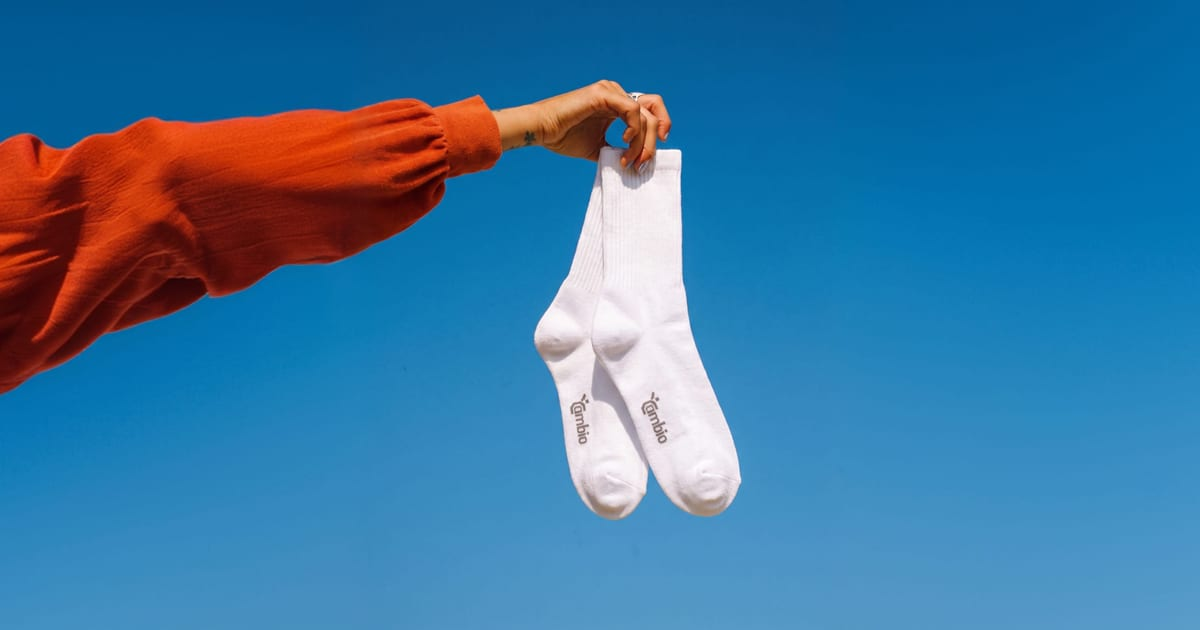
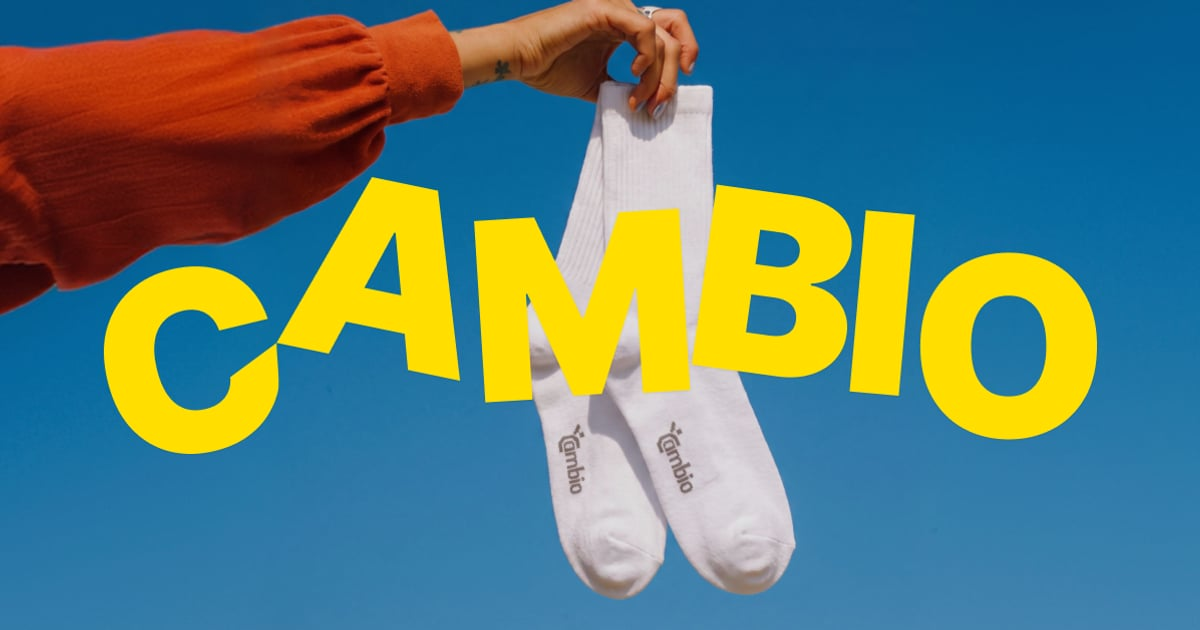
Bolje fotografije od klijenta (hero, kategorije, CTA, O nama, OG slika), D-070

diff --git a/scripts/update-media-files.ts b/scripts/update-media-files.ts
@@ -1,0 +1,57 @@
+/**
+ * Menja fajl postojećih slika novim fajlom iz src/seed/images (isto ime, nova verzija), D-070.
+ * Zapis slike u bazi ostaje isti (isti id, alt, fokus), pa sve stranice i proizvodi i dalje
+ * pokazuju na nju; Payload pravi nove veličine i otprema ih (lokalno u media/ ili na S3).
+ * Slika se nalazi po alt tekstu iz src/seed/content.ts (images).
+ * Pokretanje (lokalno):  npm run payload -- run scripts/update-media-files.ts
+ * Demo (Supabase):       cross-env NODE_ENV=production node --env-file=.env.demo.local node_modules/payload/bin.js run scripts/update-media-files.ts
+ * Posle toga revalidacija (node scripts/revalidate.mjs) ili novi deploy.
+ */
+import path from 'path'
+import { getPayload } from 'payload'
+import config from '@payload-config'
+import { images, type ImageKey } from '../src/seed/content'
+
+// Slike zamenjene boljim verzijama 28.10.2026. (izvor: Figma/Shopify eksport klijenta)
+const KEYS: ImageKey[] = [
+  'hero',
+  'catMen',
+  'catWomen',
+  'ctaBg',
+  'aboutBrand4',
+  'ctaCollection',
+  'plpCampaign',
+  'aboutHero',
+  'aboutBrand3',
+]
+
+const payload = await getPayload({ config })
+let updated = 0
+for (const key of KEYS) {
+  const img = images[key]
+  const { docs } = await payload.find({
+    collection: 'media',
+    where: { alt: { equals: img.alt } },
+    limit: 2,
+    depth: 0,
+  })
+  if (docs.length !== 1) {
+    console.log(`${key}: pronađeno ${docs.length} slika sa tim alt tekstom, preskačem`)
+    continue
+  }
+  try {
+    const doc = await payload.update({
+      collection: 'media',
+      id: docs[0].id,
+      data: {},
+      filePath: path.resolve('src/seed/images', img.file),
+      overrideAccess: true,
+    })
+    console.log(`${key}: ${img.file} -> ${doc.filename} (${doc.width}x${doc.height})`)
+    updated++
+  } catch (e) {
+    console.log(`GREŠKA ${key}: ${(e as Error).message}`)
+  }
+}
+console.log(`Zamenjeno slika: ${updated} od ${KEYS.length}`)
+process.exit()
